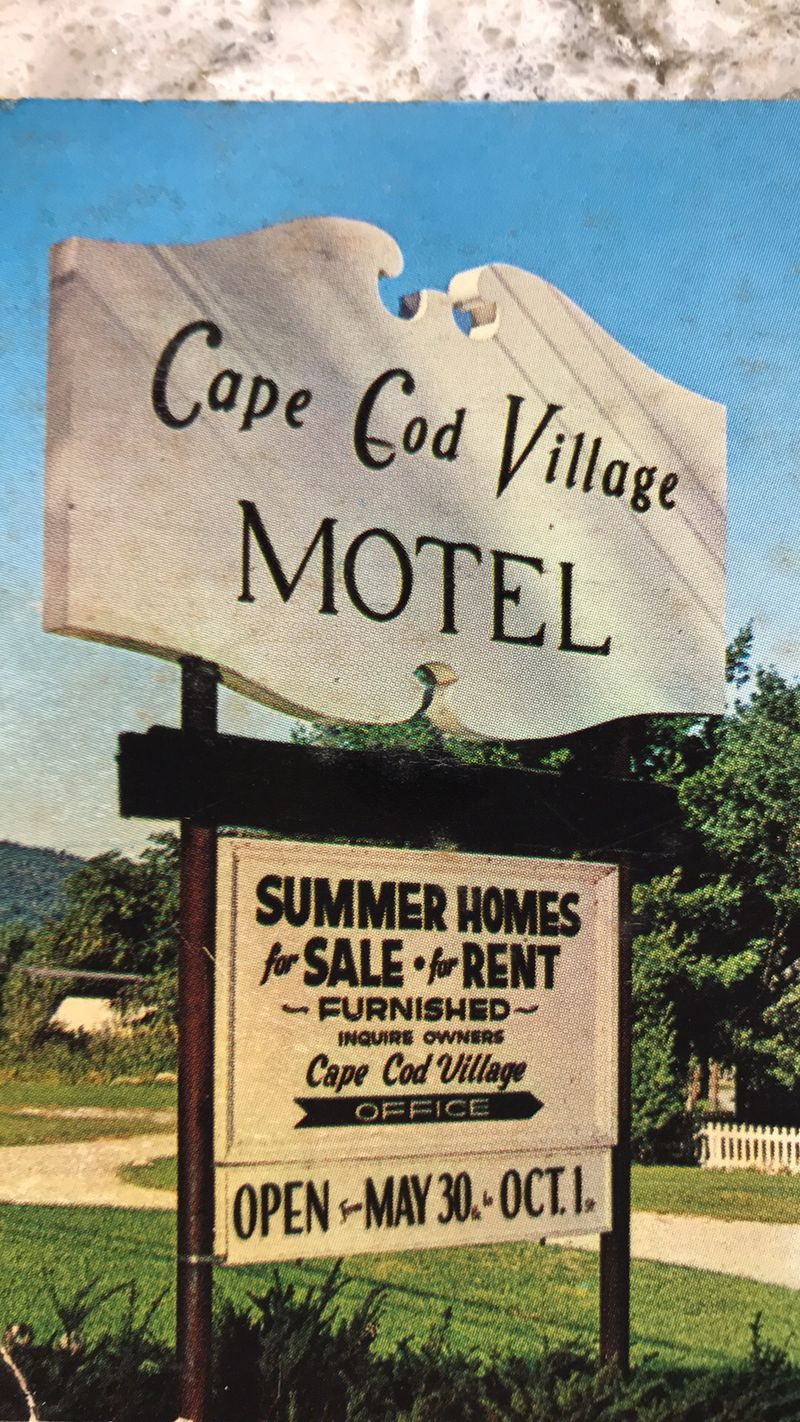
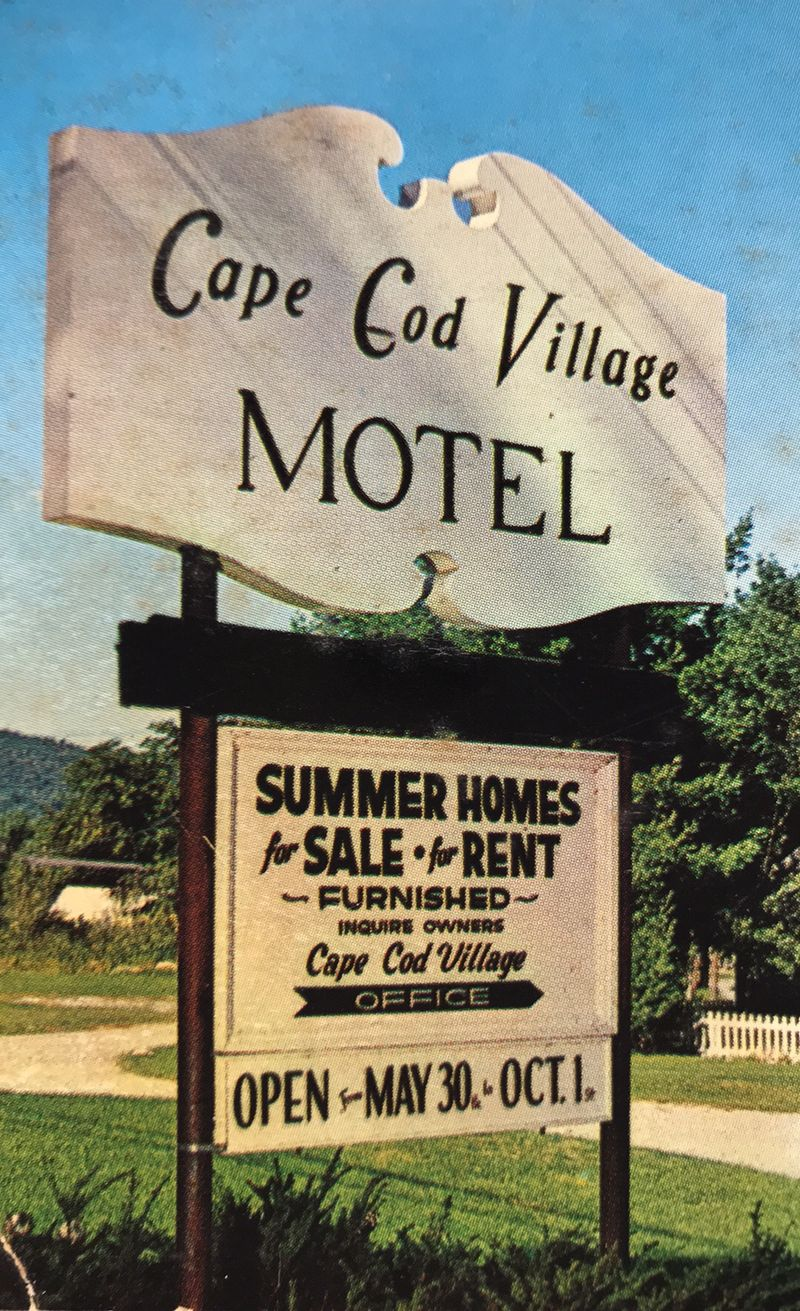
Motel sign photo: crop the countertop band above the sky
Claude-Session: https://claude.ai/code/session_01FUbqsssKQ7oyDGL8kZL29c

diff --git a/index.html b/index.html
@@ -88,7 +88,7 @@
             </div>
           </div>
           <div class="history-aside">
-            <figure class="history-feature"><img src="images/history/motel-sign.jpg" alt="Vintage Cape Cod Village Motel sign advertising furnished summer homes for sale and rent" width="800" height="1422" /></figure>
+            <figure class="history-feature"><img src="images/history/motel-sign.jpg" alt="Vintage Cape Cod Village Motel sign advertising furnished summer homes for sale and rent" width="800" height="1311" /></figure>
             <p class="history-source">Timeline milestones from George Stanford’s <cite>“The Club…A Brief History.”</cite></p>
           </div>
         </div>
